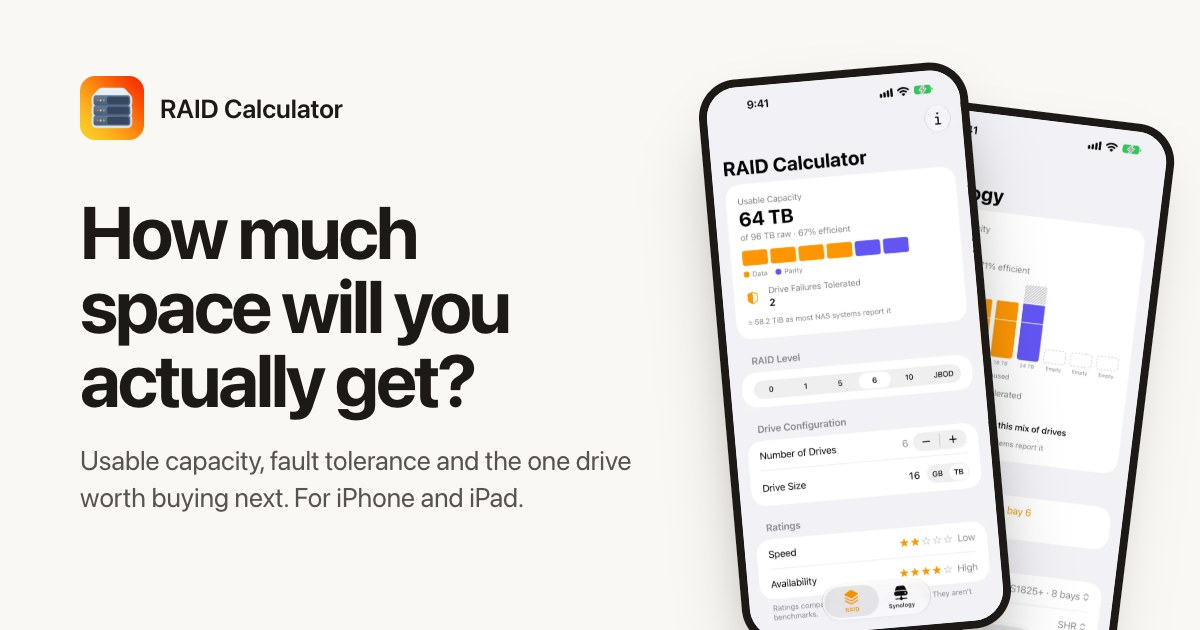
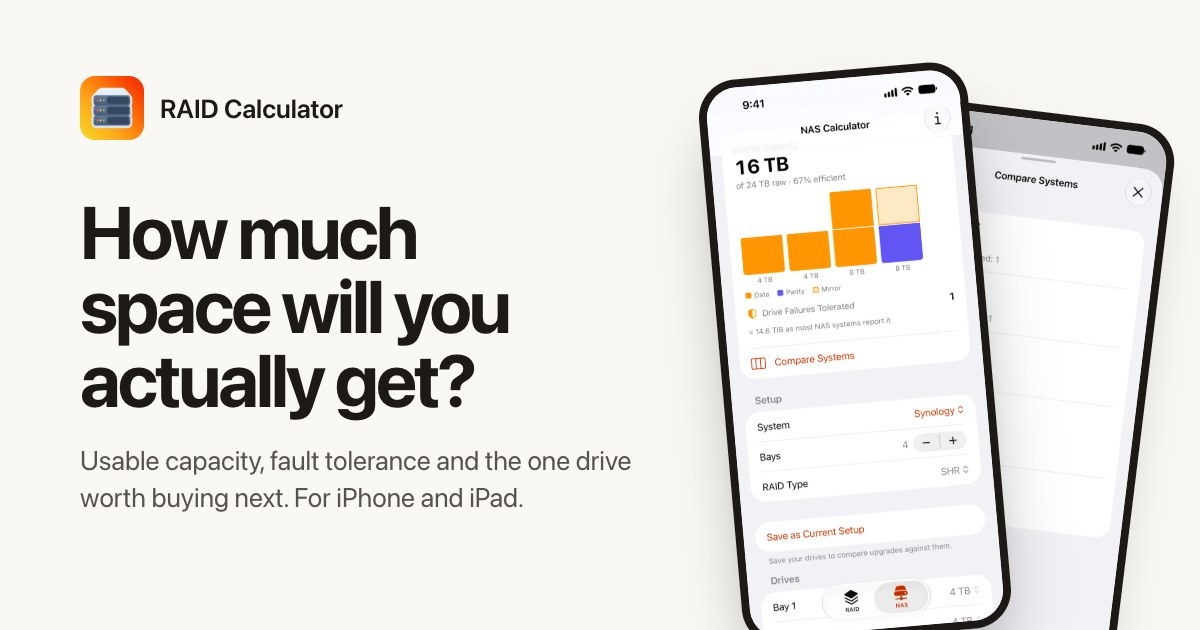
Refresh the product page screenshots for 1.7.0 and add iPhone Duo
Replaces the 1.6 iPhone and iPad shots with 1.7.0 captures (darker
tint, the Current setup baseline, advisory cautions with Use RAID 6),
adds the iPhone Duo inner display in landscape beside its paragraph,
rewrites the alt text to match, regenerates the OG card (it still
showed the old Synology tab), and updates the copy for the saved-setup
comparison, the one-tap rebuild suggestion and the RAID 6 invalid fix.

diff --git a/www/index.html b/www/index.html
@@ -16,12 +16,12 @@
 <meta property="og:image:type" content="image/jpeg">
 <meta property="og:image:width" content="1200">
 <meta property="og:image:height" content="630">
-<meta property="og:image:alt" content="RAID Calculator: “How much space will you actually get?” beside the app showing 64 TB usable on RAID 6.">
+<meta property="og:image:alt" content="RAID Calculator: “How much space will you actually get?” beside the app showing 16 TB usable from four mixed drives in Synology SHR.">
 <meta name="twitter:card" content="summary_large_image">
 <meta name="twitter:title" content="RAID Calculator for iPhone and iPad">
 <meta name="twitter:description" content="Usable capacity, fault tolerance and the one drive worth buying next. RAID 0 to 60, ZFS RAID-Z, Synology SHR, Unraid, SnapRAID and Btrfs RAID1, for iPhone and iPad.">
 <meta name="twitter:image" content="https://mrballistic.com/raid/assets/og-image.jpg">
-<meta name="twitter:image:alt" content="RAID Calculator: “How much space will you actually get?” beside the app showing 64 TB usable on RAID 6.">
+<meta name="twitter:image:alt" content="RAID Calculator: “How much space will you actually get?” beside the app showing 16 TB usable from four mixed drives in Synology SHR.">
 <meta name="apple-mobile-web-app-title" content="RAID Calculator">
 <link rel="manifest" href="site.webmanifest">
 <script type="application/ld+json">
@@ -49,8 +49,8 @@
   ],
   "image": "https://mrballistic.com/raid/assets/og-image.jpg",
   "screenshot": [
-    "https://mrballistic.com/raid/assets/03-iphone-raid-raid6.webp",
-    "https://mrballistic.com/raid/assets/09-ipad-nas-compare.webp"
+    "https://mrballistic.com/raid/assets/17-iphone-nas-shr-light.webp",
+    "https://mrballistic.com/raid/assets/17-ipad-nas-saved-light.webp"
   ],
   "author": {
     "@type": "Organization",
@@ -145,8 +145,8 @@
   .hero h1 { font-size: clamp(40px, 6vw, 66px); line-height: 1.02; letter-spacing: -0.035em; font-weight: 700; }
   .hero-sub { font-size: clamp(18px, 2vw, 21px); color: var(--ink-2); max-width: 30em; margin-top: 22px; }
   .hero-cta { margin-top: 34px; }
-  /* Two phones stacked in one grid cell: the RAID tab in front, the
-     eight-bay Synology scene behind it. As the page scrolls away from the hero they
+  /* Two phones stacked in one grid cell: the NAS tab in front, the
+     Compare Systems sheet for the same drives behind it. As the page scrolls away from the hero they
      fan apart, like the drives in the photo below. The static overlap is the
      resting state, so browsers without scroll timelines, and visitors who ask
      for reduced motion, see a finished composition rather than a missing one. */
@@ -220,8 +220,19 @@
   .ios-phones { display: flex; gap: 20px; max-width: 460px; }
   .ios-phones figure { flex: 1 1 0; min-width: 0; margin: 0; }
   .ios-phones figcaption { margin-top: 12px; font-size: 15px; color: var(--night-ink-3); }
+  /* iPhone Duo's inner display, open in landscape. Same bezel treatment as
+     the phones, thinner and less rounded for the wider screen. */
+  .duo-shot { margin: 0; max-width: 560px; }
+  .duo { container-type: inline-size; }
+  .duo img { box-sizing: border-box; width: 100%; height: auto; border: 1.6cqi solid #000000; border-radius: 4.5cqi; outline: 1px solid var(--night-rule); }
+  .duo-shot figcaption { margin-top: 12px; font-size: 15px; color: var(--night-ink-3); }
   @media (min-width: 900px) {
-    .ios-grid { grid-template-columns: 3fr 2fr; gap: 40px; }
+    /* The iPad column spans both rows; the phones and iPhone Duo stack
+       beside it, so the Duo sits next to its paragraph. */
+    .ios-grid { grid-template-columns: 3fr 2fr; grid-template-rows: auto 1fr; gap: 40px; }
+    .ios-grid > :first-child { grid-row: 1 / span 2; }
+    .ios-phones { grid-column: 2; grid-row: 1; }
+    .duo-shot { grid-column: 2; grid-row: 2; }
   }
 
   /* Privacy */
@@ -306,10 +317,10 @@
     </div>
     <div class="hero-shots">
       <div class="phone">
-        <img src="assets/03-iphone-raid-raid6.webp" width="640" height="1391" fetchpriority="high" alt="The RAID tab: RAID 6 with six 16 TB drives, 64 TB usable of 96 TB raw, two drives of parity">
+        <img src="assets/17-iphone-nas-shr-light.webp" width="640" height="1391" fetchpriority="high" alt="The NAS tab on iPhone: 4, 4, 8 and 8 TB drives in Synology SHR, 16 TB usable of 24 TB raw, 67% efficient, with part of one 8 TB drive as a mirror copy and one drive failure tolerated">
       </div>
       <div class="phone">
-        <img src="assets/02-iphone-nas-compare.webp" width="640" height="1391" alt="The Compare Systems sheet on iPhone, with 16, 8, 8 and 4 TB drives: Synology 20 TB, Unraid 20 TB, SnapRAID 20 TB, Btrfs RAID1 18 TB and ZFS 12 TB">
+        <img src="assets/17-iphone-compare-light.webp" width="640" height="1391" alt="The Compare Systems sheet on iPhone, with 4, 4, 8 and 8 TB drives: Synology 16 TB, Unraid 16 TB, SnapRAID 16 TB, ZFS 12 TB with 8 TB unused, and Btrfs RAID1 12 TB, each tolerating one drive failure">
       </div>
     </div>
   </section>
@@ -324,7 +335,7 @@
           <div><strong>Five systems, the same drives</strong><span class="muted">Switch between Synology, Unraid, ZFS, SnapRAID and Btrfs RAID1 and watch the same bays re-split. Compare Systems lines them all up, most usable space first, and says when a system reads fewer bays than you set up, or more than the one you’re viewing.</span></div>
           <div><strong>Wasted space, made visible</strong><span class="muted">Unused capacity is hatched, with the number spelled out: “8&nbsp;TB unused with this mix of drives.”</span></div>
           <div><strong>The one drive worth buying</strong><span class="muted">Biggest Upgrade names the single purchase that unlocks the most space: “Replace bay 4 (4&nbsp;TB) with 16&nbsp;TB, +12&nbsp;TB usable.” One tap tries it.</span></div>
-          <div><strong>Compared with what you own</strong><span class="muted">Every change is measured against your saved setup (“+4&nbsp;TB usable”), with Save as Current Setup and Revert.</span></div>
+          <div><strong>Compared with what you own</strong><span class="muted">Save as Current Setup once, and every later change is measured against it (“+4&nbsp;TB usable”), with Revert to go back.</span></div>
           <div class="compare">
             <p class="quiet">Same drives, two layouts</p>
             <p class="muted" style="margin-top:12px">2&nbsp;×&nbsp;4&nbsp;TB + 2&nbsp;×&nbsp;8&nbsp;TB</p>
@@ -337,9 +348,9 @@
         </div>
         <figure class="synology-shot" style="margin:0">
           <div class="ipad">
-            <img src="assets/09-ipad-nas-compare.webp" width="1400" height="1234" loading="lazy" alt="The NAS tab on iPad: 16, 8, 8 and 4 TB drives in SHR, 20 TB usable of 36 TB raw with the 16 TB drive’s top 8 TB hatched as unused, and Synology, Unraid, SnapRAID, Btrfs RAID1 and ZFS compared beside the drive list">
+            <img src="assets/17-ipad-nas-saved-light.webp" width="1400" height="1492" loading="lazy" alt="The NAS tab on iPad: 8, 4, 8 and 8 TB drives in Synology SHR, 20 TB usable of 28 TB raw; Synology, Unraid and SnapRAID 20 TB, Btrfs RAID1 14 TB and ZFS 12 TB compared beneath; and, against a current setup of 16 TB usable, +4 TB usable">
           </div>
-          <figcaption class="quiet">16, 8, 8 and 4&nbsp;TB drives in SHR on iPad, with every system compared beside them.</figcaption>
+          <figcaption class="quiet">8, 4, 8 and 8&nbsp;TB drives in SHR on iPad, with every system compared and the gain over the saved setup.</figcaption>
         </figure>
       </div>
       <p class="models muted">Pick a bay count from 2 to 12 for Synology, or up to 30 for Unraid, ZFS, SnapRAID and Btrfs RAID1. SHR and SHR-2 sit alongside Synology’s RAID 1, 5 and 6. Unraid and SnapRAID put parity on your largest drives automatically, and for ZFS the app also shows the figure ZFS will report, labeled as an estimate.</p>
@@ -358,17 +369,17 @@
         </div>
       </div>
       <div>
-        <div class="phone"><img src="assets/04-iphone-raid-raid5-caution.webp" width="640" height="1391" loading="lazy" alt="RAID 5 on eight 20 TB drives, showing a rebuild-risk caution suggesting RAID 6"></div>
+        <div class="phone"><img src="assets/17-iphone-raid5-caution-light.webp" width="640" height="1391" loading="lazy" alt="RAID 5 on eight 20 TB drives, 140 TB usable of 160 TB raw, with a caution that a rebuild can take days and a one-tap Use RAID 6 button"></div>
         <div class="card-text">
           <h3>A warning while it still matters</h3>
-          <p>RAID 5, RAID 50 and RAID-Z1 on drives of 8&nbsp;TB or more warn that a rebuild can take days and that a second failure during it loses the array, and suggest RAID 6, RAID 60 or RAID-Z2 when the groups are wide enough to move up.</p>
+          <p>RAID 5, RAID 50 and RAID-Z1 on drives of 8&nbsp;TB or more warn that a rebuild can take days and that a second failure during it loses the array. When the groups are wide enough to move up, one tap switches to RAID 6, RAID 60 or RAID-Z2.</p>
         </div>
       </div>
       <div>
-        <div class="phone"><img src="assets/05-iphone-raid-invalid-fix.webp" width="640" height="1391" loading="lazy" alt="RAID 10 with five drives: results dimmed, with a one-tap Use 6 drives fix"></div>
+        <div class="phone"><img src="assets/17-iphone-raid6-invalid-light.webp" width="640" height="1391" loading="lazy" alt="RAID 6 with three 12 TB drives: results dimmed, and RAID 6 requires at least 4 drives, with a one-tap Use 4 drives fix"></div>
         <div class="card-text">
           <h3>Invalid setups fix themselves</h3>
-          <p>“RAID 10 requires an even number of drives (4 or more).” Tap “Use 6 drives” and the numbers come back. Every level and every NAS system has an info sheet: overview, pros, cons and typical uses, plus ratings for RAID levels and how the app calculates RAID-Z and each NAS system.</p>
+          <p>“RAID 6 requires at least 4 drives.” Tap “Use 4 drives” and the numbers come back. Every level and every NAS system has an info sheet: overview, pros, cons and typical uses, plus ratings for RAID levels and how the app calculates RAID-Z and each NAS system.</p>
         </div>
       </div>
     </div>
@@ -381,15 +392,19 @@
       <p class="lede">Liquid Glass, Dynamic Type at every size including the largest accessibility sizes, and VoiceOver that reads diagrams as full sentences: “Bay 1, 16&nbsp;TB: 8&nbsp;TB parity, 8&nbsp;TB unused.” It also reads each drive within a group. English, Spanish, French, Italian, Japanese, German, Traditional Chinese, Simplified Chinese, Korean and Brazilian Portuguese.</p>
       <div class="ios-grid">
         <div>
-          <div class="ipad ipad-dark"><img src="assets/11-ipad-nas-dark.webp" width="1400" height="1234" loading="lazy" alt="The NAS tab on iPad in dark mode: twelve drives from 8 to 16 TB in ZFS RAID-Z1, 88 TB usable of 144 TB raw, ≈ 77.5 TiB as ZFS reports it (an estimate), with the other four systems compared beside the drive list"></div>
+          <div class="ipad ipad-dark"><img src="assets/17-ipad-unraid-30-bays-dark.webp" width="1400" height="1234" loading="lazy" alt="The NAS tab on iPad in dark mode: thirty bays from 4 to 20 TB in Unraid with two parity drives, 230 TB usable of 270 TB raw, two drive failures tolerated, and SnapRAID 250 TB, Synology 146 TB, Btrfs RAID1 135 TB and ZFS 116 TB compared beneath"></div>
           <h3>On iPad</h3>
           <p>Results beside inputs, every system compared at a glance, and up to 30 bays on screen at once. It adapts to split view too.</p>
           <h3>On iPhone Duo</h3>
           <p>Closed, the outer display shows a single column beside the system’s side bars. Opened in landscape, results sit beside inputs with the fold in the gap between them, and a level’s or system’s info opens in place of the inputs, so the results stay in view.</p>
         </div>
+        <figure class="duo-shot">
+          <div class="duo"><img src="assets/17-duo-inner-landscape-light.webp" width="1200" height="844" loading="lazy" alt="The NAS tab on iPhone Duo’s inner display, open in landscape: results on the left, with 16 TB usable of 24 TB raw from 4, 4, 8 and 8 TB drives in Synology SHR and Synology, Unraid and SnapRAID at 16 TB each; the setup and the four bays on the right"></div>
+          <figcaption>iPhone Duo, open in landscape</figcaption>
+        </figure>
         <div class="ios-phones">
           <figure>
-            <div class="phone-dark"><img src="assets/07-iphone-nas-dark.webp" width="640" height="1391" loading="lazy" alt="The NAS tab on iPhone in dark mode: eight bays in Unraid, 48 TB usable of 68 TB raw, with the 20 TB drive as parity"></div>
+            <div class="phone-dark"><img src="assets/17-iphone-nas-saved-dark.webp" width="640" height="1391" loading="lazy" alt="The NAS tab on iPhone in dark mode: 8, 4, 8 and 8 TB drives in Synology SHR, compared with a current setup of 16 TB usable, Synology SHR, 4 bays: +4 TB usable, with Save as Current Setup and Revert"></div>
             <figcaption>Dark mode</figcaption>
           </figure>
           <figure>
